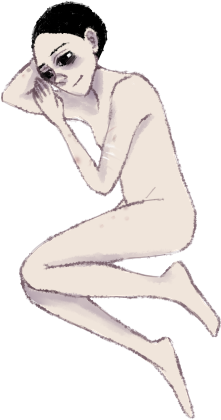
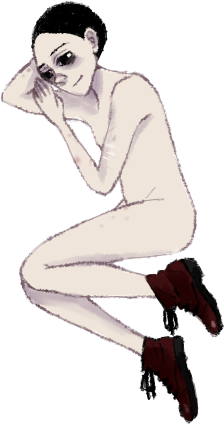
gail shmot

diff --git a/dist/assets/index-X2e5JmaO.js b/dist/assets/index-X2e5JmaO.js
@@ -1,0 +1,1 @@
+import{P as e}from"./phaser-CmFXOKba.js";!function(){const e=document.createElement("link").relList;if(!(e&&e.supports&&e.supports("modulepreload"))){for(const e of document.querySelectorAll('link[rel="modulepreload"]'))t(e);new MutationObserver((e=>{for(const i of e)if("childList"===i.type)for(const e of i.addedNodes)"LINK"===e.tagName&&"modulepreload"===e.rel&&t(e)})).observe(document,{childList:!0,subtree:!0})}function t(e){if(e.ep)return;e.ep=!0;const t=function(e){const t={};return e.integrity&&(t.integrity=e.integrity),e.referrerPolicy&&(t.referrerPolicy=e.referrerPolicy),"use-credentials"===e.crossOrigin?t.credentials="include":"anonymous"===e.crossOrigin?t.credentials="omit":t.credentials="same-origin",t}(e);fetch(e.href,t)}}();const t={currentChar:"mom",currentSection:"",mom:{hair:1,hairPreview:1,hairtotal:10,top:1,toptotal:6,bottom:1,bottomtotal:6},gail:{hair:1,hairtotal:4,top:1,toptotal:6,bottom:1,bottomtotal:0},btnChangeChar:!1};class i extends Phaser.Scene{constructor(){super({key:"Loading"})}preload(){this.load.image("bg","assets/bg.png"),this.add.sprite(640,480,"bg").setPosition(320,240),this.add.graphics().fillStyle(16777215,1).fillRect(50,190,540,180),this.add.text(320,150,"Abigail's sweet homecoming",{font:"36px monospace",fill:"black",backgroundColor:"white"}).setOrigin(.5,.5).setInteractive({cursor:"pointer"}),this.add.text(70,200,"After spending a few years away from her hometown, 19-year-old Abigail is finally visiting to reunite with her beloved mother. As they prepare for a memorable evening together, help them choose the perfect outfits to make this reunion even more special. Let the dress-up fun begin and create unforgettable memories for this heartwarming homecoming!",{font:"18px monospace",fill:"black",lineSpacing:2,align:"center",wordWrap:{width:540,useAdvancedWrap:!0}});let e=this.add.graphics().fillStyle(2236962,1).fillRect(210,395,220,30),t=this.add.graphics(),i=this.add.text(320,400,"Play",{font:"36px monospace",fill:"#fff",backgroundColor:"black"}).setOrigin(.5,.5).setInteractive({cursor:"pointer"});i.on("pointerdown",(()=>this.scene.start("Game"))),i.setVisible(!1),this.load.on("progress",(function(e){t.clear().fillStyle(16777215,1).fillRect(215,400,210*e,20)})),this.load.on("complete",(function(){t.destroy(),e.destroy(),i.setVisible(!0)})),this.load.image("mother","assets/mom.png"),this.load.image("abigail","assets/gail.png"),this.load.image("hairbtn","assets/interface/hairbtn.png"),this.load.image("topsbtn","assets/interface/topsbtn.png"),this.load.image("bottomsbtn","assets/interface/bottomsbtn.png"),this.load.image("rightpanel","assets/interface/rightpanel.png"),this.load.image("arrow","assets/interface/arrow.png"),this.load.image("arrowgail","assets/interface/arrowgail.png"),this.load.audio("music","assets/interface/LastWaltz.mp3"),this.loadSet("hair","mom"),this.loadSet("top","mom"),this.loadSet("bottom","mom"),this.loadSet("hair","gail"),this.loadSet("top","gail")}loadSet(e,i){let o=t[i][e+"total"];for(var r=1;r<=o;r++)this.load.image(i+e+r,"assets/"+i+"/"+e+r+".png"),this.load.image(i+e+"preview"+r,"assets/"+i+"/"+e+"preview"+r+".png")}}const o={preview:[{condition:"hairpreview1",who:"mom",text:["home sweet home"],qty:1},{condition:"hairpreview6",who:"mom",text:["ah i wish i had curly hair","ah i wish i had curly hair"],qty:1},{condition:"toppreview3",who:"mom",text:["do you have any idea what it's like to see your dreams die","because of a single mistake?","because of a single mistake?","because of a single mistake?"],qty:1}],click:[{on:"hair2",who:"mom",text:["welcome home, Abigail","how was your time away?","your return marks a significant moment for us"],qty:1},{on:"hair3",who:"mom",text:["isn't it a wonderful, bittersweet feeling","when people say we look so much alike?"]},{on:"hair9",who:"mom",text:["this is where I feel closest to my old dreams","singing here in church.","it's not the stage I imagined","but it's a stage nonetheless"]},{on:"top2",who:"mom",text:["did you miss our little shop, Abigail?","I remember you helping me stock shelves","and chatting with the regulars.","(And the scent of fresh tobacco.)"],qty:1},{on:"top6",who:"mom",text:["o Lord hear the cry of a girl","for years of silence and fear","have birthed within her a fury","vast and ancient like the storms of old","grant her solace for her anger is now a tempest beyond words","a grief that knows no comfort","may she find peace in Your embrace","and let her soul be healed","amen"]},{on:"bottom2",who:"mom",text:["I tried to love you, I really did."],qty:6},{on:"bottom4",who:"mom",text:["Yet the cruel, inevitable, and irredeemable truth","is that a mistake is exactly what you are."],qty:2}]};class r extends Phaser.Scene{constructor(){super({key:"Game"})}create(){t.bg=this.add.sprite(640,480,"bg").setPosition(320,240),this.hairbtn=this.add.sprite(640,480,"hairbtn").setPosition(80,130).setInteractive({cursor:"pointer"}),this.hairbtn.on("pointerdown",(()=>{this.onNavClicked("hair")})),this.topsbtn=this.add.sprite(640,480,"topsbtn").setPosition(80,230).setInteractive({cursor:"pointer"}),this.topsbtn.on("pointerdown",(()=>{this.onNavClicked("top")})),this.bottomsbtn=this.add.sprite(640,480,"bottomsbtn").setPosition(80,330).setInteractive({cursor:"pointer"}),this.bottomsbtn.on("pointerdown",(()=>{this.onNavClicked("bottom")})),this.rightPanel1=this.add.sprite(640,480,"rightpanel").setPosition(560,150),this.rightPanel2=this.add.sprite(640,480,"rightpanel").setPosition(560,310),this.arrowPrev=this.add.sprite(640,480,"arrow").setPosition(530,410).setFlipX(!0).setInteractive({cursor:"pointer"}),this.arrowNext=this.add.sprite(640,480,"arrow").setPosition(590,410).setInteractive({cursor:"pointer"}),this.arrowChangeChar=this.add.sprite(640,480,"arrowgail").setPosition(80,410).setInteractive({cursor:"pointer"}),this.changeCharText=this.add.text(70,410,"Gail",{font:"22px monospace",fill:"black"}).setOrigin(.5,.5);const e=this.sound.add("music");e.loop=!0,e.play(),this.sound.pauseOnBlur=!1,this.arrowNext.on("pointerdown",(()=>{let e=t.currentChar,i=t.currentSection,o=t[e][i];t[e+i+"preview"+o].visible=!1,t[e+i+"preview"+(o+1)].visible=!1;let r=o+2<t[e][i+"total"]?o+2:1;t[e+i+"preview"+r].visible=!0,t[e+i+"preview"+(r+1)].visible=!0,t[e][i]=r,t.btnChangeChar||"bottom"!==i||3!=o||(t.btnChangeChar=!0,this.arrowChangeChar.visible=!0),this.checkChange("preview")})),this.arrowPrev.on("pointerdown",(()=>{let e=t.currentChar,i=t.currentSection,o=t[e][i];t[e+i+"preview"+o].visible=!1,t[e+i+"preview"+(o+1)].visible=!1;let r=1===o?t[e][i+"total"]-1:o-2;t[e+i+"preview"+r].visible=!0,t[e+i+"preview"+(r+1)].visible=!0,t[e][i]=r,this.checkChange("preview")})),this.arrowChangeChar.on("pointerdown",(()=>{Object.keys(t).filter((e=>e.includes(t.currentChar+t.currentSection+"preview"))).forEach((e=>t[e].visible=!1)),t.currentSection=null,this.changeCharText.setText(t.currentChar.charAt(0).toUpperCase()+t.currentChar.slice(1)),this.arrowChangeChar.setFlipX(!this.arrowChangeChar.flipX),t.currentChar="mom"==t.currentChar?"gail":"mom",this.onNavClicked("hair"),this.checkChange("preview")})),this.mother=this.add.sprite(640,480,"mother").setPosition(250,248),this.addSet("mom","bottom",248,345),this.addSet("mom","top",238,285),this.addSet("mom","hair",238,99),this.abigail=this.add.sprite(640,480,"abigail").setPosition(383,258),this.addSet("gail","hair",346,112),this.addSet("gail","top",387,263),this.onNavClicked("hair")}addSet(e,i,o,r){let s=e+i,a=t[e][i+"total"];for(let n=1;n<=a;n++)t[s+n]=this.add.sprite(o,r,s+n),1!==n&&(t[s+n].visible=!1),t[s+"preview"+n]=this.add.sprite(560,n%2==0?310:150,s+"preview"+n).setInteractive({cursor:"pointer"}),(n>2||"hair"!==i||"mom"!==e)&&(t[s+"preview"+n].visible=!1),t[s+"preview"+n].on("pointerdown",(()=>{for(let o=1;o<=a;o++)t[e+i+o].visible=o===n;this.checkChange("click")}))}checkChange(e){o[e].forEach((i=>{let o;if("preview"===e?t[i.who+i.condition]._visible&&(o=!0):i.who===t.currentChar&&i.on.replace(/[0-9]/g,"")===t.currentSection&&t[i.who+i.on]._visible&&(o=!0),o){let e=i.qty?i.qty:1;for(let t=0;t<e;t++){let e={backgroundColor:"black",color:"white"};const t=o=>{if(o>=i.text.length)return;let r=this.add.text(0,0,i.text[o],e),s=r.width,a=r.height;r.destroy();let n=Phaser.Math.Between(0,640-s),h=Phaser.Math.Between(0,480-a),l=this.add.text(n,h,i.text[o],e);setTimeout((()=>{l.destroy()}),1e4),setTimeout((()=>{t(o+1)}),3e3)};t(0)}}}))}onNavClicked(e){const i={hair:this.hairbtn,top:this.topsbtn,bottom:this.bottomsbtn};if(t.currentSection!==e){let i=t.currentChar;if(t.currentSection){let e=t[i][t.currentSection]%2==0;t[i+t.currentSection+"preview"+t[i][t.currentSection]].visible=!1;let o=t[i][t.currentSection]+(e?-1:1);t[i+t.currentSection+"preview"+o].visible=!1}t.currentSection=e;let o=t[i][e+"total"];for(let r=1;r<=o;r++)t[i+e+"preview"+r].visible=r-t[i][e]<=1}Object.keys(i).forEach((e=>{i[e].preFX.clear(),t.currentSection!==e&&i[e].preFX.addColorMatrix().negative()})),this.checkChange("preview")}}class s extends Phaser.Scene{constructor(){super({key:"PreLoading"})}preload(){this.load.image("bg","assets/bg.png"),this.load.on("complete",(()=>{this.scene.start("Loading")}))}}new e.Game({type:e.AUTO,width:640,height:480,parent:"container",scene:[s,i,r]});

diff --git a/src/Game.js b/src/Game.js
@@ -8,59 +8,65 @@ class Game extends Phaser.Scene {
   create() {
     gameState.bg = this.add.sprite(640, 480, "bg").setPosition(320, 240);
     // left buttons
-    gameState.hairbtn = this.add
+    this.hairbtn = this.add
       .sprite(640, 480, "hairbtn")
       .setPosition(80, 130)
       .setInteractive({ cursor: "pointer" });
-    gameState.hairbtn.on("pointerdown", () => {
+    this.hairbtn.on("pointerdown", () => {
       this.onNavClicked("hair");
     });
-    gameState.topsbtn = this.add
+    this.topsbtn = this.add
       .sprite(640, 480, "topsbtn")
       .setPosition(80, 230)
       .setInteractive({ cursor: "pointer" });
-    gameState.topsbtn.on("pointerdown", () => {
+    this.topsbtn.on("pointerdown", () => {
       this.onNavClicked("top");
     });
-    gameState.bottomsbtn = this.add
+    this.bottomsbtn = this.add
       .sprite(640, 480, "bottomsbtn")
       .setPosition(80, 330)
       .setInteractive({ cursor: "pointer" });
-    gameState.bottomsbtn.on("pointerdown", () => {
+    this.bottomsbtn.on("pointerdown", () => {
       this.onNavClicked("bottom");
     });
 
     //
 
     // right panel
-    gameState.rightPanel1 = this.add
+    this.rightPanel1 = this.add
       .sprite(640, 480, "rightpanel")
       .setPosition(560, 150);
-    gameState.rightPanel2 = this.add
+    this.rightPanel2 = this.add
       .sprite(640, 480, "rightpanel")
       .setPosition(560, 310);
-    gameState.arrowPrev = this.add
+    this.arrowPrev = this.add
       .sprite(640, 480, "arrow")
       .setPosition(530, 410)
       .setFlipX(true)
       .setInteractive({ cursor: "pointer" });
-    gameState.arrowNext = this.add
+    this.arrowNext = this.add
       .sprite(640, 480, "arrow")
       .setPosition(590, 410)
       .setInteractive({ cursor: "pointer" });
 
-    gameState.arrowGail = this.add
+    this.arrowChangeChar = this.add
       .sprite(640, 480, "arrowgail")
       .setPosition(80, 410)
-      .setVisible(false)
+      // .setVisible(false)
       .setInteractive({ cursor: "pointer" });
+    this.changeCharText = this.add
+      .text(70, 410, "Gail", {
+        font: "22px monospace",
+        fill: "black",
+      })
+      .setOrigin(0.5, 0.5);
 
     const music = this.sound.add("music");
     music.loop = true;
     music.play();
     this.sound.pauseOnBlur = false;
 
-    gameState.arrowNext.on("pointerdown", () => {
+    this.arrowNext.on("pointerdown", () => {
       let char = gameState.currentChar;
       let section = gameState.currentSection;
       let current = gameState[char][section];
@@ -75,12 +81,13 @@ class Game extends Phaser.Scene {
 
       gameState[char][section] = next;
 
-      if (!gameState.showGailBtn && section === "bottom" && current == 3) {
-        gameState.arrowGail.visible = true;
+      if (!gameState.btnChangeChar && section === "bottom" && current == 3) {
+        gameState.btnChangeChar = true;
+        this.arrowChangeChar.visible = true;
       }
       this.checkChange("preview");
     });
-    gameState.arrowPrev.on("pointerdown", () => {
+    this.arrowPrev.on("pointerdown", () => {
       let char = gameState.currentChar;
       let section = gameState.currentSection;
       let current = gameState[char][section];
@@ -98,30 +105,36 @@ class Game extends Phaser.Scene {
       this.checkChange("preview");
     });
 
-    gameState.arrowGail.on("pointerdown", () => {
-      gameState.currentChar = "gail";
+    this.arrowChangeChar.on("pointerdown", () => {
+      let keys = Object.keys(gameState).filter((k) =>
+        k.includes(gameState.currentChar + gameState.currentSection + "preview")
+      );
+      keys.forEach((k) => (gameState[k].visible = false));
+      gameState.currentSection = null;
+      this.changeCharText.setText(
+        gameState.currentChar.charAt(0).toUpperCase() +
+          gameState.currentChar.slice(1)
+      );
+      this.arrowChangeChar.setFlipX(!this.arrowChangeChar.flipX);
+      gameState.currentChar = gameState.currentChar == "mom" ? "gail" : "mom";
       this.onNavClicked("hair");
       this.checkChange("preview");
     });
 
     // MOM
-    gameState.mother = this.add
-      .sprite(640, 480, "mother")
-      .setPosition(250, 248);
-    this.addSet("mom", "bottom", 248, 345, true);
-    this.addSet("mom", "top", 238, 285, true);
-    this.addSet("mom", "hair", 238, 99, true);
+    this.mother = this.add.sprite(640, 480, "mother").setPosition(250, 248);
+    this.addSet("mom", "bottom", 248, 345);
+    this.addSet("mom", "top", 238, 285);
+    this.addSet("mom", "hair", 238, 99);
 
     // GAIL
-    gameState.abigail = this.add
-      .sprite(640, 480, "abigail")
-      .setPosition(380, 258);
+    this.abigail = this.add.sprite(640, 480, "abigail").setPosition(383, 258);
     this.addSet("gail", "hair", 346, 112);
-    this.addSet("gail", "top", 399, 219);
+    this.addSet("gail", "top", 387, 263);
 
     this.onNavClicked("hair");
   }
-  addSet(who, what, x, y, withPreview) {
+  addSet(who, what, x, y) {
     let name = who + what;
     let total = gameState[who][what + "total"];
     for (let i = 1; i <= total; i++) {
@@ -129,20 +142,18 @@ class Game extends Phaser.Scene {
       if (i !== 1) {
         gameState[name + i].visible = false;
       }
-      if (withPreview) {
-        gameState[name + "preview" + i] = this.add
-          .sprite(560, i % 2 === 0 ? 310 : 150, name + "preview" + i)
-          .setInteractive({ cursor: "pointer" });
-        if (i > 2 || what !== "hair") {
-          gameState[name + "preview" + i].visible = false;
-        }
-        gameState[name + "preview" + i].on("pointerdown", () => {
-          for (let r = 1; r <= total; r++) {
-            gameState[who + what + r].visible = r === i ? true : false;
-          }
-          this.checkChange("click");
-        });
+      gameState[name + "preview" + i] = this.add
+        .sprite(560, i % 2 === 0 ? 310 : 150, name + "preview" + i)
+        .setInteractive({ cursor: "pointer" });
+      if (i > 2 || what !== "hair" || who !== "mom") {
+        gameState[name + "preview" + i].visible = false;
       }
+      gameState[name + "preview" + i].on("pointerdown", () => {
+        for (let r = 1; r <= total; r++) {
+          gameState[who + what + r].visible = r === i ? true : false;
+        }
+        this.checkChange("click");
+      });
     }
   }
   checkChange(type) {
@@ -195,9 +206,9 @@ class Game extends Phaser.Scene {
   }
   onNavClicked(type) {
     const buttons = {
-      hair: gameState.hairbtn,
-      top: gameState.topsbtn,
-      bottom: gameState.bottomsbtn,
+      hair: this.hairbtn,
+      top: this.topsbtn,
+      bottom: this.bottomsbtn,
     };
     if (gameState.currentSection !== type) {
       let who = gameState.currentChar;

diff --git a/src/Loading.js b/src/Loading.js
@@ -78,26 +78,24 @@ class Loading extends Phaser.Scene {
     this.load.image("arrowgail", "assets/interface/arrowgail.png");
     this.load.audio("music", "assets/interface/LastWaltz.mp3");
 
-    this.loadSet("hair", "mom", true);
-    this.loadSet("top", "mom", true);
-    this.loadSet("bottom", "mom", true);
+    this.loadSet("hair", "mom");
+    this.loadSet("top", "mom");
+    this.loadSet("bottom", "mom");
 
     this.loadSet("hair", "gail");
     this.loadSet("top", "gail");
   }
-  loadSet(name, who, withPreview) {
+  loadSet(name, who) {
     let total = gameState[who][name + "total"];
     for (var i = 1; i <= total; i++) {
       this.load.image(
         who + name + i,
         "assets/" + who + "/" + name + i + ".png"
       );
-      if (withPreview) {
-        this.load.image(
-          who + name + "preview" + i,
-          "assets/" + who + "/" + name + "preview" + i + ".png"
-        );
-      }
+      this.load.image(
+        who + name + "preview" + i,
+        "assets/" + who + "/" + name + "preview" + i + ".png"
+      );
     }
   }
 }

diff --git a/dist/index.html b/dist/index.html
@@ -14,7 +14,7 @@
         }
         #container {margin: auto;font-family: monospace;}
     </style>
-  <script type="module" crossorigin src="./assets/index-DL4jlBCF.js"></script>
+  <script type="module" crossorigin src="./assets/index-X2e5JmaO.js"></script>
   <link rel="modulepreload" crossorigin href="./assets/phaser-CmFXOKba.js">
   <link rel="stylesheet" crossorigin href="./assets/index-BfibREyH.css">
 </head>

diff --git a/src/gameState.js b/src/gameState.js
@@ -12,12 +12,13 @@ const gameState = {
   },
   gail: {
     hair: 1,
-    hairtotal: 3,
+    hairtotal: 4,
     top: 1,
-    toptotal: 1,
+    toptotal: 6,
     bottom: 1,
     bottomtotal: 0,
   },
+  btnChangeChar: false,
 };
 
 export default gameState;
